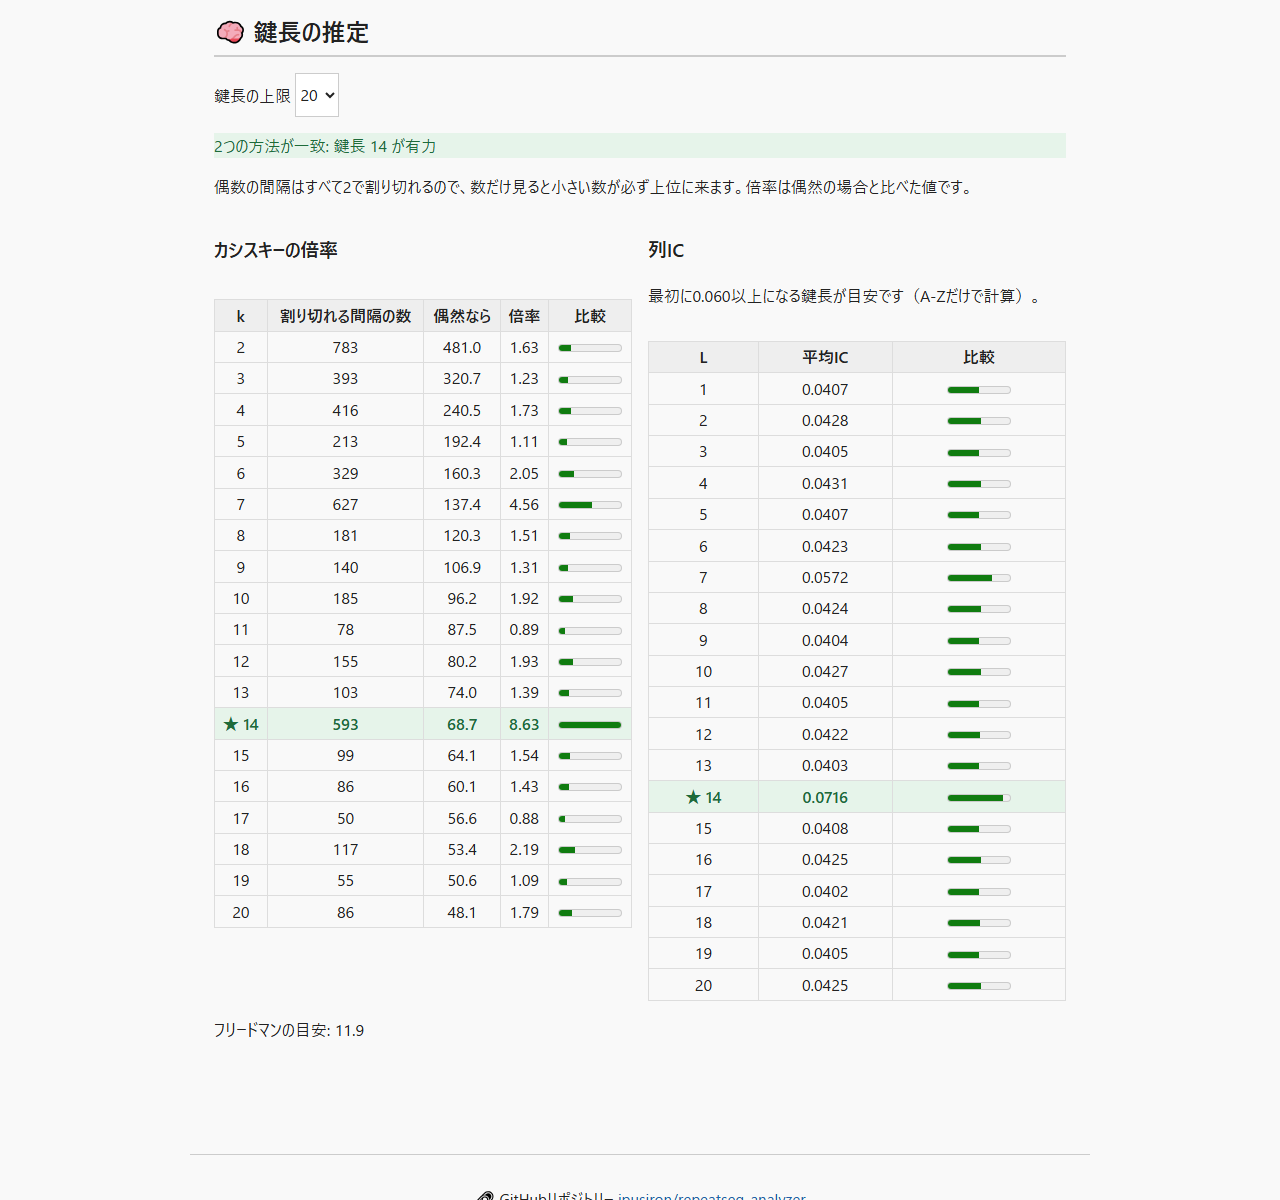
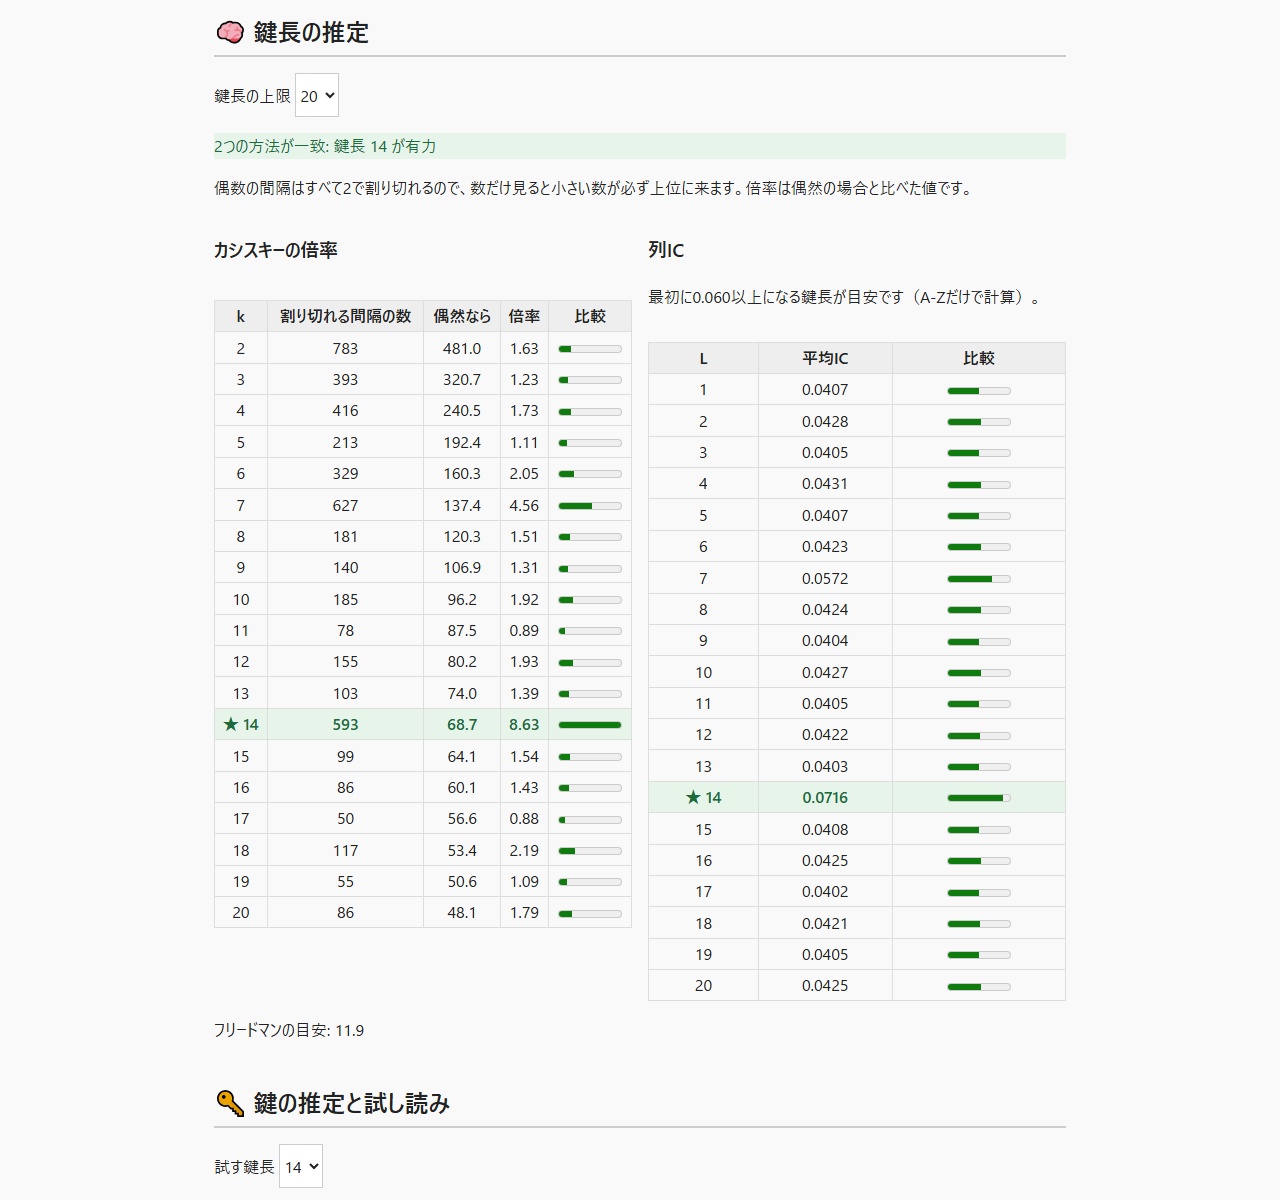
段階4: 鍵推定の説明と検証表・画像5枚を整備

diff --git a/js/i18n.js b/js/i18n.js
@@ -316,6 +316,19 @@ const messages = {
 const helpSections = {
   "ja": [
     {
+      "heading": "鍵の推定・サンプル・間隔図",
+      "paragraphs": [
+        "同梱サンプル5つを選んで読み込めます。手順の5段は解析から要約し、「ここへ」で見出しに移動します。表の「図」で反復の出現位置・間隔・公約数を確認できます。",
+        "鍵の推定はA-Zだけを列に分け、Day009と同じ英文頻度でχ²=Σ(観測数−期待数)²/期待数を最小にします。同点はAに近い文字です。2位が1位の1.5倍未満なら接戦で、1位が0なら接戦にしません。",
+        "既定の鍵長は列ICが1なら1、一致ならその値、倍数なら小さいほう、それ以外はカシスキー、片方だけならその値、両方なしなら1です。",
+        "caesarは1/D、shiftは1/Q、vigenere1は5/LEMON、vigenere2は14/KNOWLEDGEISKEY、randomは推定なし（1で試してQ）です。",
+        "vigenere1の先頭150文字ではカシスキー20・列IC5から鍵長5、鍵LEIONです。3列目のI（44.9）とM（63.6）が接戦で、Mに変えると読めます。200文字ではLEMONです。",
+        "鍵文字の修正で試し読みが即時に変わります。「推定に戻す」で全列を戻します。鍵長の変更は手修正を破棄し、言語切り替えは保持します。",
+        "ヴィジュネル暗号（加算）を仮定し、ボーフォート暗号などは対象外です。試し読みは先頭300文字を5文字区切りで表示し、全文の文字数を添えます。",
+        "各列をDay009へ?text=で渡せます。5,000文字を超える列は渡せません。入力と結果を保存せず、リンクを押すまで外部通信しません。"
+      ]
+    },
+    {
       "heading": "概要",
       "paragraphs": [
         "極大反復は、左右に伸ばせない出現の組を持つ、長さ3以上の反復文字列です。全出現位置を重なりも含めて数え、隣り合う位置の差を間隔とします。",
@@ -355,12 +368,33 @@ const helpSections = {
     {
       "heading": "事前判定と制限",
       "paragraphs": [
-        "事前判定はA-Zだけで計算し、100文字未満はデータ不足、ICが0.060を超えると単一換字、0.045未満は多表式、その間は判定困難です。",
+        "事前判定はA-Zだけで計算し、100文字未満はデータ不足、ICが0.060を超えると単一換字、0.045未満は多表式またはランダムに近い文字列、その間は判定困難です。",
         "同じ文字の連続などで候補が多すぎると、候補の文字数200万または出現位置20万の上限で打ち切ります。言語とテーマだけを同じブラウザー内に保存します。"
       ]
     }
   ],
   "en": [
+    {
+      "heading": "Key guesses, samples and gap diagrams",
+      "paragraphs": [
+        "Load any of five bundled samples. The five steps summarize analysis; Go here focuses each heading. " +
+          "Diagram buttons show occurrence bands, adjacent gaps and common divisors.",
+        "A–Z columns use Day009 English frequencies to minimize χ² = Σ(observed−expected)²/expected, with ties toward A. " +
+          "A second-best value below 1.5 times the best is a close contest, except when the best is zero.",
+        "The default is 1 when column IC suggests 1, then agreement, then the smaller of multiples, then Kasiski. " +
+          "Use the only available estimate, or try 1 if neither is available.",
+        "Defaults/keys: caesar 1/D; shift 1/Q; vigenere1 5/LEMON; vigenere2 14/KNOWLEDGEISKEY; " +
+          "random has no estimate (try 1, producing Q).",
+        "With 150 letters of vigenere1, Kasiski 20 and column IC 5 select length 5 and LEION. " +
+          "Column 3 has I (44.9) versus M (63.6); changing to M makes it readable. At 200 letters the guess is LEMON.",
+        "Editing letters immediately updates the preview. Reset to guess restores all columns. " +
+          "Changing length discards edits; changing language preserves them.",
+        "Trial decryption assumes additive Vigenere, not Beaufort or other variants. " +
+          "It shows up to 300 letters in groups of five, plus the total plaintext length.",
+        "Pass each column to Day009 through ?text=. Columns over 5,000 letters cannot be transferred. " +
+          "Input and results are not saved; external requests occur only when you activate a link."
+      ]
+    },
     {
       "heading": "Overview",
       "paragraphs": [
@@ -415,7 +449,7 @@ const helpSections = {
       "heading": "Classification and limits",
       "paragraphs": [
         "Classification uses A–Z only: fewer than 100 letters is insufficient; IC above 0.060 suggests monoal" +
-      "phabetic substitution, below 0.045 suggests a polyalphabetic cipher, and intermediate values are unc" +
+      "phabetic substitution, below 0.045 suggests a polyalphabetic cipher or near-random string, and intermediate values are unc" +
       "ertain.",
         "Degenerate inputs may be truncated at 2,000,000 candidate characters or 200,000 occurrence positions" +
       ". Only language and theme preferences are stored in the same browser."

diff --git a/README.en.md b/README.en.md
@@ -21,15 +21,25 @@ For classical cryptanalysis practice and learning the Kasiski method, it calcula
 ## 📸 Screenshots
 
 ![Both methods suggest key length 14](assets/screenshot.png)
-> *Light Japanese view of vigenere2: the Kasiski ratio is 8.63 and both methods select 14. 1280×1200, 101,131 bytes.*
+> *Light Japanese view of vigenere2: the Kasiski ratio is 8.63 and both methods select 14. 1280×1200, 105,650 bytes.*
 
 ![Highlighted repeats and the results table](assets/screenshot2.png)
-> *Vigenere1 highlights and LRPHUP: length 6, positions 230, 280 and 360. 1280×1000, 112,165 bytes.*
+> *Vigenere1 highlights and LRPHUP: length 6, positions 230, 280 and 360. 1280×1200, 127,823 bytes.*
 
 ![Dark English input and classification](assets/screenshot3.png)
-> *The top of the dark English page after analyzing vigenere1. 1280×1200, 89,063 bytes.*
+> *Dark English input section after loading vigenere1, with the body-colored completion message and classification. 1280×1000, 81,885 bytes.*
+
+![Guessed key and trial decryption](assets/screenshot4.png)
+> *Vigenere2: KNOWLEDGEISKEY, column candidates and trial plaintext. 1280×1200, 106,893 bytes.*
+
+![LRPHUP occurrence positions and gaps](assets/screenshot5.png)
+> *Vigenere1: three LRPHUP bands, two arcs, gaps 50 and 80, and common divisors 2, 5 and 10. 1280×1200, 68,042 bytes.*
 
 ## ✨ Features
+
+- Five bundled samples and a five-step guide derived from the analysis
+- SVG diagrams of positions, adjacent gaps and common divisors for the selected repeat
+- Per-column chi-square key guesses, editable key letters, trial decryption and transfers to Day009
 
 - Maximal repeats of at least 3 characters, with every occurrence and adjacent gap
 - Preliminary cipher classification using the IC of A–Z letters only
@@ -42,6 +52,14 @@ For classical cryptanalysis practice and learning the Kasiski method, it calcula
 - Japanese/English switching, light/dark themes, keyboard controls and a help dialog
 
 ## 📖 Usage
+
+Choose a bundled sample and select Load to analyze it with space and symbol removal enabled. Labels show types, not keys.
+Go here in Decryption steps scrolls to and focuses the corresponding heading. Steps 2–5 are disabled before analysis.
+Select Diagram in a row to change the gap diagram; the longest repeat is initially selected. Sorting, filtering and pagination preserve selection.
+Positions show at most 20 entries and diagrams at most 12 arcs, with omitted counts. Gaps and common divisors also appear as text.
+Edit key letters in Key guess and trial decryption; Reset to guess restores all columns.
+Trial decryption shows at most 300 A–Z plaintext letters in groups of five, plus the total length.
+Changing key length discards manual letters. Language switching preserves key length, manual letters and diagram selection.
 
 ### Basic steps
 
@@ -104,8 +122,38 @@ The rough Friedman estimate is `(κp−κr)n / ((κp−I)+n(I−κr))`.
 It uses English κp=0.065 and uniform κr=1/26. Fewer than two letters or a nonpositive denominator produces null; estimates below 1 become 1.
 The interface shows one decimal place; the table below uses two. Interpret short texts and non-English statistics carefully.
 
-Classification returns insufficient data below 100 letters, monoalphabetic for IC>0.060, polyalphabetic for IC<0.045 and uncertain in between.
+Classification returns insufficient data below 100 letters, monoalphabetic for IC>0.060, polyalphabetic or near-random for IC<0.045 and uncertain in between.
 Degenerate inputs, such as a long run of one letter, are truncated at a total of 2,000,000 candidate characters or 200,000 positions, with a warning.
+
+### Key Guess and Trial Decryption
+
+Split A–Z ciphertext into L columns and compare all 26 shifts of each column with English letter frequencies.
+The chi-square statistic is `χ² = Σ (observed − expected)² / expected`; expected counts are column length times letter frequency.
+The 26 Lewand frequencies are identical to Day009 Frequency Analyzer and sum to 99.999%. Choose the smallest statistic, breaking ties toward A.
+A column is a close contest when the second-best χ² is less than 1.5 times the best; a best value of zero is never close.
+This assumes additive Vigenere encryption, not Beaufort or other variants.
+The default is 1 when column IC suggests 1; otherwise use agreement, or the smaller length when one estimate is a multiple of the other.
+For other disagreements use Kasiski. Use the only available estimate, or try 1 when both are null.
+
+| Sample | Default length | Guessed key | First 30 trial plaintext letters |
+|---|---|---|---|
+| caesar | 1 | D | WHENINAPRILTHESWEETSHOWERSFALL |
+| shift | 1 | Q | WHENINAPRILTHESWEETSHOWERSFALL |
+| vigenere1 | 5 | LEMON | WHENINAPRILTHESWEETSHOWERSFALL |
+| vigenere2 | 14 | KNOWLEDGEISKEY | CRYPTOGRAPHYISFASCINATINGANDST |
+| random | — (try 1) | Q | OGDSTCDUOYUWUYZFYNHZYGYBAQUHHV |
+
+### When the Ciphertext Is Short
+
+For the first 150 A–Z letters of vigenere1, Kasiski suggests 20 and column IC 5, so their multiple relationship selects 5.
+The guess is LEION. Column 3 is close: I (44.9) versus M (63.6). Changing it to M makes the plaintext readable.
+At 200 letters the guess becomes LEMON. This comparison uses A–Z prefixes.
+
+| Letters | Kasiski | Column IC | Default | Guessed key | Close columns |
+|---|---|---|---|---|---|
+| 100 | 15 | 5 | 5 | LEION | 3 |
+| 150 | 20 | 5 | 5 | LEION | 3 |
+| 200 | 20 | 5 | 5 | LEMON | — |
 
 ### Changes from the previous version
 
@@ -123,7 +171,7 @@ Key estimates use ratios and column IC instead of raw divisor counts, and an uns
 | random | `samples/random/random.txt` | Random | — | 2000 | 116 | null | null | null |
 
 Null means no estimate meets the method's rule. Random is a comparison fixture, not a cipher.
-To inspect a sample in the interface, paste its contents or select the corresponding file.
+Load a sample using the selector, paste its contents or select the corresponding file.
 
 ## 🔒 Security
 
@@ -137,6 +185,9 @@ If storage is blocked, the current page remains functional. Input and analysis r
 GitHub Pages does not support arbitrary response headers, so protection against framing is not guaranteed.
 
 ## 🔗 Related Tools
+
+Each key column can be passed to Day009 Frequency Analyzer through `?text=`. Columns over 5,000 letters show a reason instead of a link.
+The classification link also includes A–Z input when no longer than 5,000 letters. No external request occurs until a link is activated.
 
 - [Caesar Cipher Wheel Tool](https://github.com/ipusiron/caesar-cipher-wheel): Caesar cipher visualization
 - [Caesar Cipher Breaker](https://github.com/ipusiron/caesar-cipher-breaker): brute-force Caesar deciphering
@@ -160,7 +211,7 @@ The README known-answer table is also checked by recalculating values from the s
 | test/samples.test.js | Embedded sample bytes match the fixtures and contain no answer keys |
 | test/i18n.test.js | Matching language keys, used keys, empty values and Japanese literals in application code |
 | test/html.test.js | CSP, referrer, links, ARIA and safe DOM rendering |
-| test/contrast.test.js | Fourteen text color pairs and focus outlines in both themes |
+| test/contrast.test.js | Eighteen color pairs including information, errors and diagrams, plus focus outlines in both themes |
 | test/format.test.js | Maximum line lengths and minimum file lengths |
 | test/readme.test.js | Known answers, YAML, complete file tree, headings and images |
 
@@ -183,7 +234,9 @@ repeatseq-analyzer/                # Project root
 ├── assets/                        # README screenshots
 │   ├── screenshot.png             # Vigenere2: both key estimates are 14
 │   ├── screenshot2.png            # Vigenere1 highlights and repeated sequence table
-│   └── screenshot3.png            # Vigenere1: dark English page header and classification
+│   ├── screenshot3.png            # Vigenere1: dark English input, completion message and classification
+│   ├── screenshot4.png            # Key guess and trial decryption of vigenere2
+│   └── screenshot5.png            # LRPHUP gap diagram from vigenere1
 ├── js/                            # Classic scripts compatible with file URLs
 │   ├── repeatseq-core.js          # DOM-independent maximal repeats, ratios, IC and Friedman
 │   ├── samples.js                 # Embedded ciphertexts for loading under file://

diff --git a/CLAUDE.md b/CLAUDE.md
@@ -23,7 +23,8 @@ No build step, runtime network requests, external fonts or npm dependencies are 
 - `js/i18n.js`: Japanese/English dictionaries, structured help and language selection.
 - `js/theme-init.js`: synchronous theme initialization in head before the stylesheet.
 - `samples/`: immutable known-answer fixtures.
-- `assets/`: three README screenshots.
+- `assets/`: five README screenshots.
+- `js/samples.js`: five embedded ciphertext fixtures, byte-identical to their source files, with no keys or plaintext answers.
 - `README.md` and `README.en.md`: matching sections, known answers and complete file trees.
 - `.github/workflows/test.yml`: dependency-free Node 22 tests.
 
@@ -77,7 +78,8 @@ Never persist ciphertext or results. Apply the saved theme to the root before th
 | test/core.test.js | Five known answers, examples, normalization, 500 seeded brute-force cases, limits and Kasiski rules |
 | test/i18n.test.js | Matching keys, used keys, nonempty values and no Japanese literals in application code |
 | test/html.test.js | CSP, referrer, accessible elements, links, early theme and safe DOM |
-| test/contrast.test.js | Fourteen text/background pairs and focus outlines for both themes |
+| test/contrast.test.js | Eighteen color pairs and focus outlines for both themes |
+| test/samples.test.js | Embedded samples match file bytes, ordered IDs and no answer keys |
 | test/format.test.js | Line length limits and minimum file lengths against minification |
 | test/readme.test.js | Both known-answer tables, metadata, complete file trees, sections and image references |
 
@@ -91,5 +93,21 @@ Never persist ciphertext or results. Apply the saved theme to the root before th
 | vigenere2 | 4937 | 288 | 14 | 14 | 11.87 |
 | random | 2000 | 116 | null | null | null |
 
-The tool estimates key lengths; it does not recover keys or plaintext.
-On-screen sample loading, a step-by-step guide and transfers to other tools are intentionally deferred.
+## Key Guesses and Trial Decryption
+
+Preserve columnsOf, chiSquare, guessKey, vigenereDecrypt and suggestedLength from the supplied reference.
+ENGLISH_FREQ is the same 26-entry Lewand percentage table as Day009 (sum 99.999).
+CLOSE_RATIO is 1.5: second.chi < CLOSE_RATIO * best.chi marks a close contest; a best score of zero is never close.
+Default length: column IC 1 first, agreement, smaller of multiples, Kasiski, column IC alone, then null (UI tries 1).
+Defaults/keys: caesar 1/D, shift 1/Q, vigenere1 5/LEMON, vigenere2 14/KNOWLEDGEISKEY, random null (try 1)/Q.
+Vigenere1 at 150 letters: Kasiski 20, column IC 5, default 5, LEION; column 3 I 44.9 versus M 63.6 is close.
+At 200 letters the guess is LEMON. Never alter existing cryptographic expectations.
+Always use normalized A-Z for guesses, irrespective of the symbol setting. Trial decryption assumes additive Vigenere.
+Render the first 300 letters in five-letter groups, with total length. Manual edits update the preview without reanalysis.
+Changing length discards edits; changing language preserves them. Input changes clear all stale results.
+Day009 links use ?text= plus encodeURIComponent, with a 5,000-letter limit, target=_blank and noopener noreferrer.
+Keep samples.js mechanically generated from fixtures, with no answer keys, plaintext or type metadata.
+Do not use fetch or XMLHttpRequest: embedded classic scripts must work under file://.
+The five-step guide derives its state from analysis and key edits; it has no separate persisted state.
+Gap diagrams use sequence strings as keys and keep selection through sorting/filtering/paging/language changes.
+Use SVG DOM APIs, CSS theme colors and text descriptions, with at most 12 arcs and 20 positions in descriptions.
